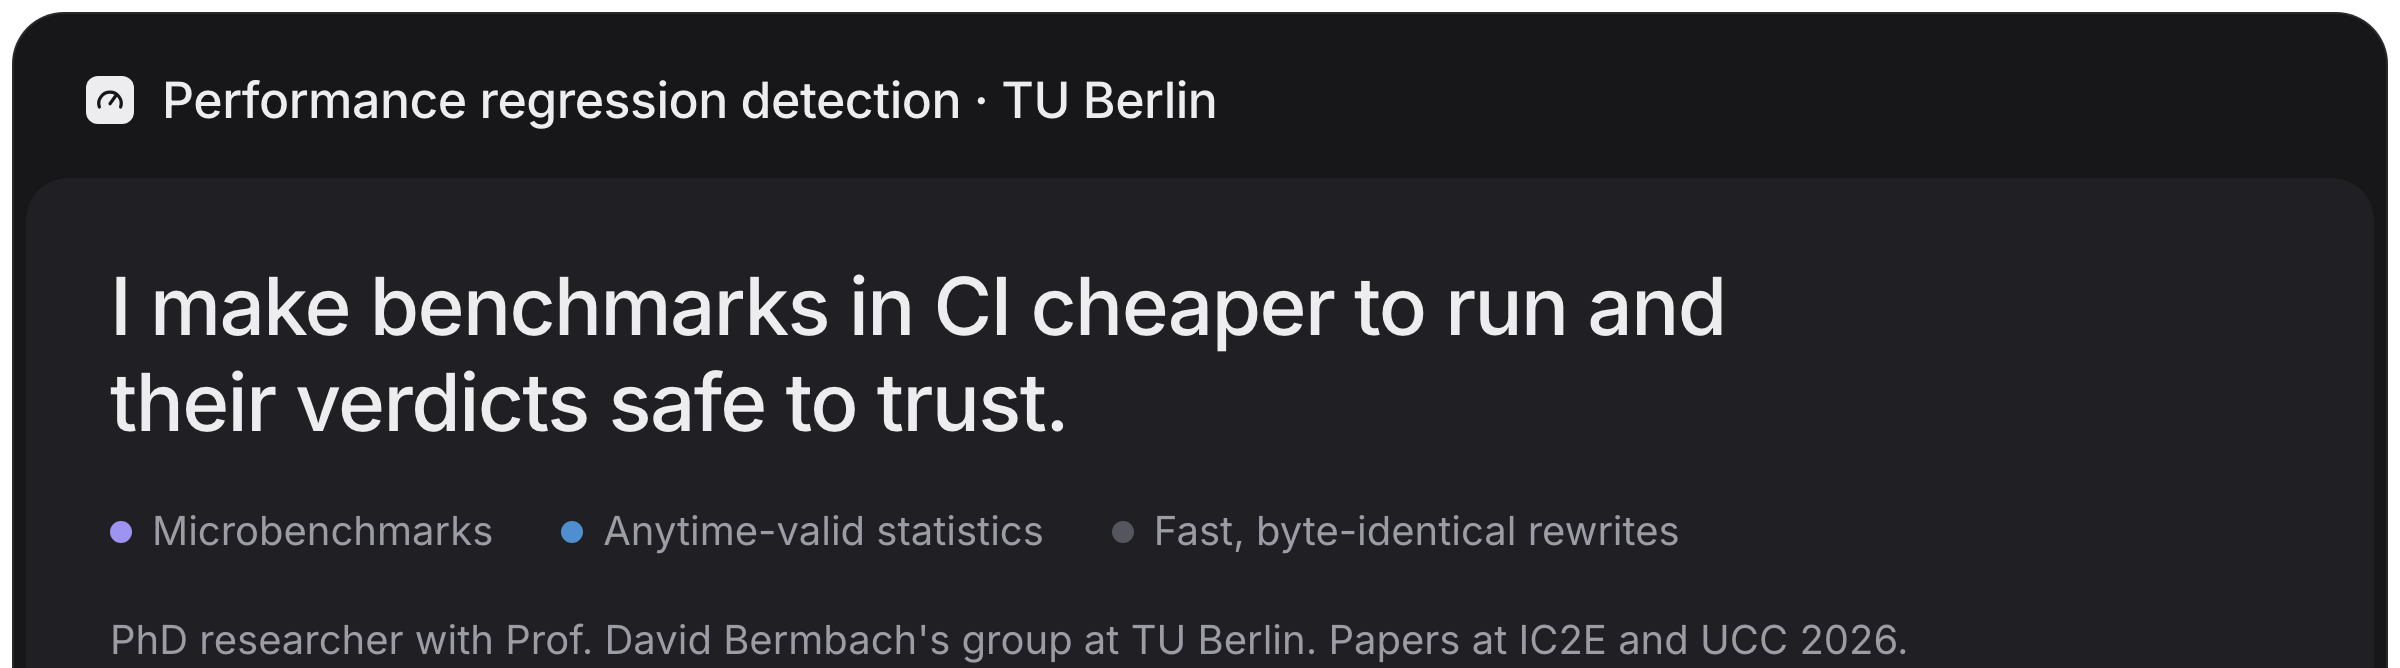
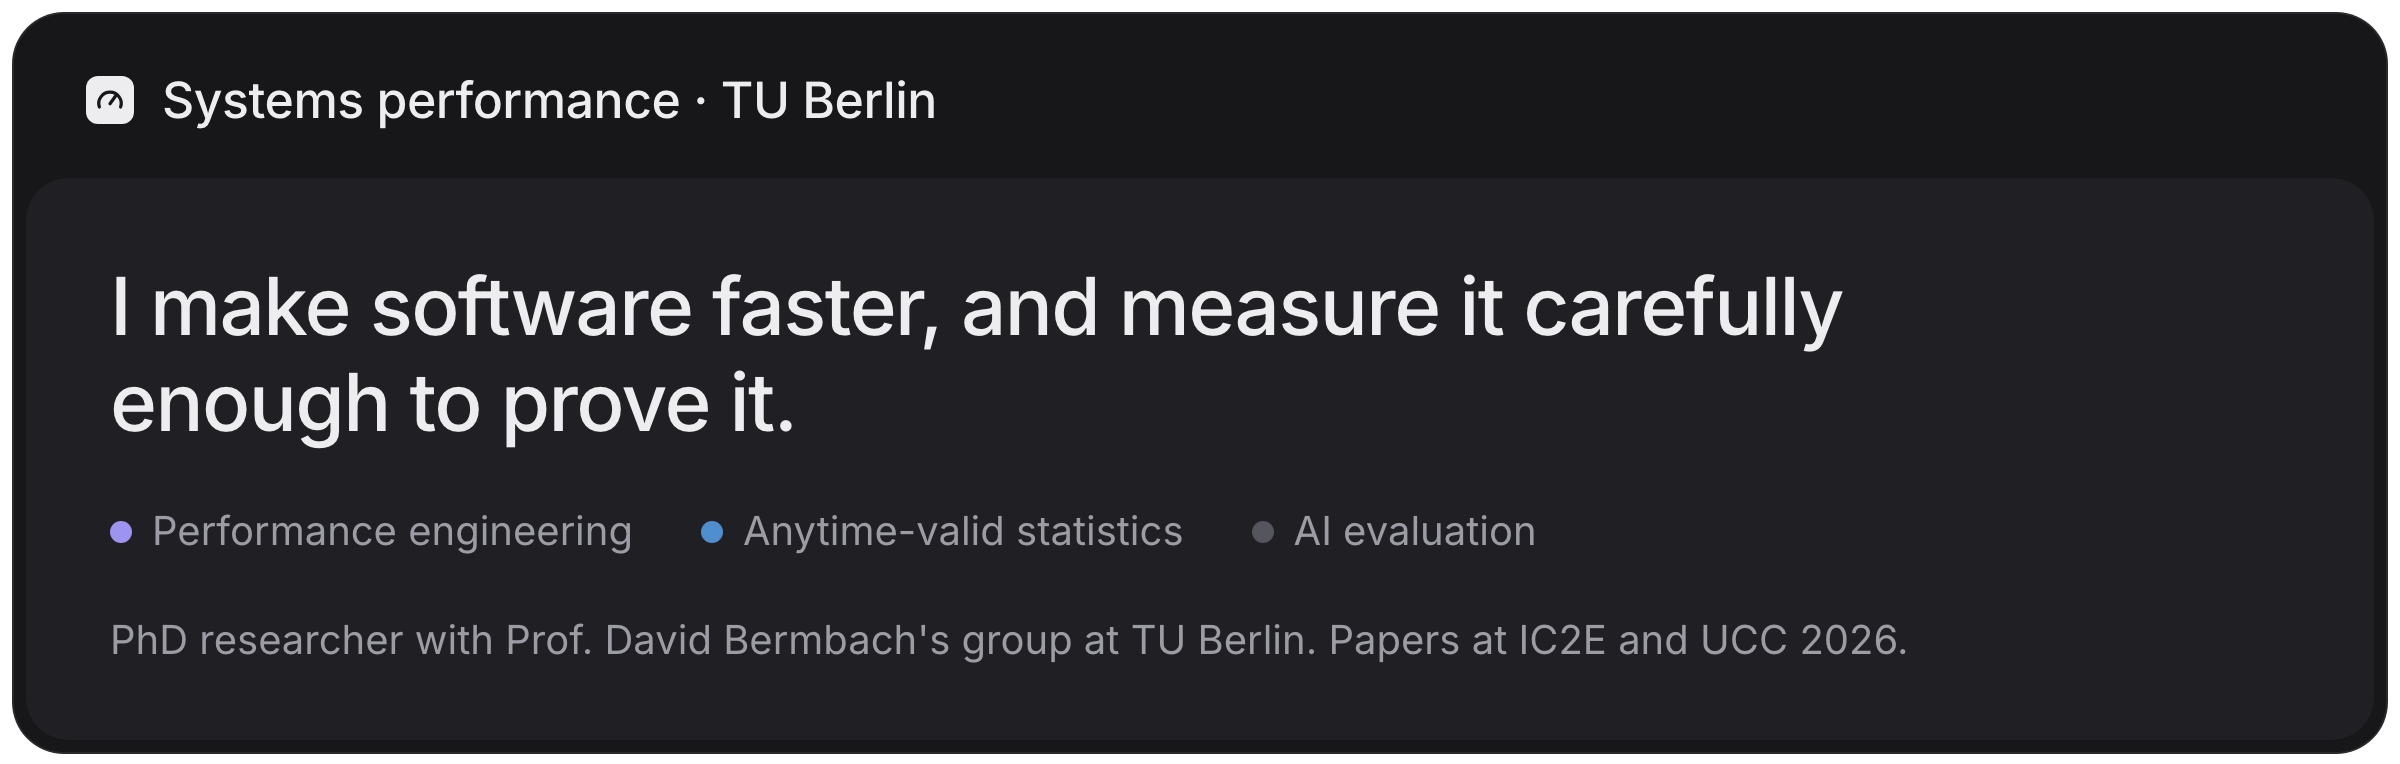
Broaden profile card

diff --git a/README.md b/README.md
@@ -1,4 +1,4 @@
-<picture><source media="(prefers-color-scheme: dark)" srcset="assets/hero-dark.png"><img src="assets/hero-light.png" width="100%" alt="Performance regression detection at TU Berlin. I make benchmarks in CI cheaper to run and their verdicts safe to trust. PhD researcher with Prof. David Bermbach's group at TU Berlin, papers at IC2E and UCC 2026."></picture>
+<picture><source media="(prefers-color-scheme: dark)" srcset="assets/hero-dark.png"><img src="assets/hero-light.png" width="100%" alt="Systems performance at TU Berlin. I make software faster, and measure it carefully enough to prove it. Performance engineering, anytime-valid statistics, AI evaluation. PhD researcher with Prof. David Bermbach's group at TU Berlin, papers at IC2E and UCC 2026."></picture>
 
 <p>
 <a href="https://github.com/s3bastiankoch/adapbench"><picture><source media="(prefers-color-scheme: dark)" srcset="assets/tile-adapbench-dark.png"><img src="assets/tile-adapbench-light.png" width="32%" alt="AdapBench, UCC 2026: 42 % less benchmark time in CI on 8 Java projects at the same detections and false-positive rate."></picture></a>
